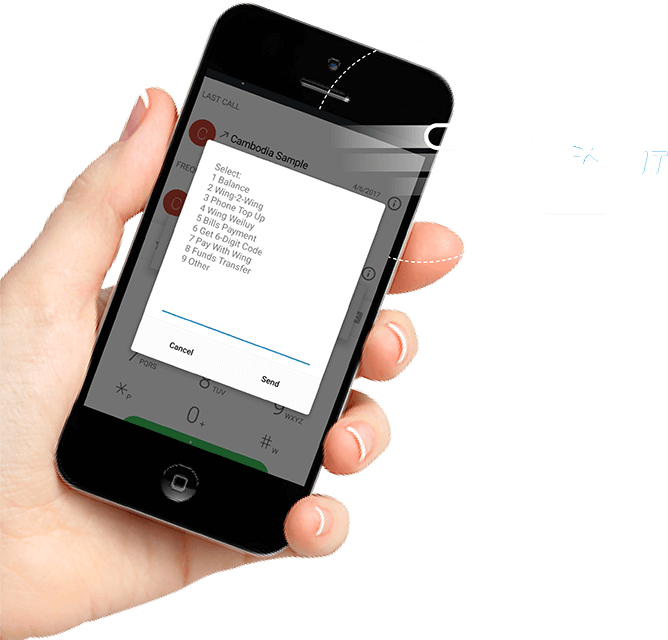
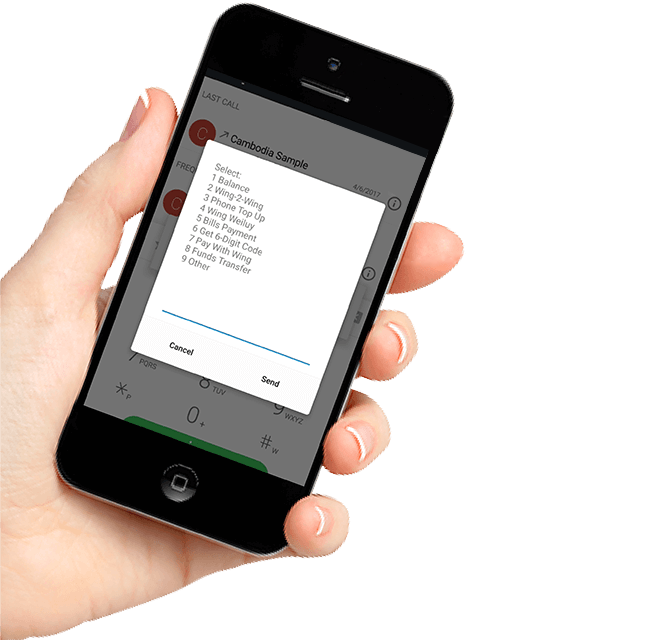
Removed Wing IT texts

Changed region(s): [[0.509, 0.1875, 0.6886, 0.3125], [0.988, 0.2188, 1.0, 0.25]]

diff --git a/web/khmer-home.php b/web/khmer-home.php
@@ -125,9 +125,12 @@ height="0" width="0" style="display:none;visibility:hidden"></iframe></noscript>
 						<div class="table-cell">
 							<div class="banner-text text-center">
 								<!-- <h3 class="animated hiding" data-animation="fadeInUp" data-delay="200">Do you need to...</h3> -->
-								<h1 class="animated hiding" data-animation="fadeInUp" data-delay="200">ប្រើប្រាស់វីង<br style="display: block;" />ដើម្បីទទួលបានអត្ថប្រយោជន៏<br style="display: block;" />កាន់តែច្រើន!</h1>
+								<!-- <h1 class="animated hiding" data-animation="fadeInUp" data-delay="200">ប្រើប្រាស់វីង<br style="display: block;" />ដើម្បីទទួលបានអត្ថប្រយោជន៏<br style="display: block;" />កាន់តែច្រើន!</h1> -->
+								<h1 class="animated hiding" data-animation="fadeInUp" data-delay="200">បើកគណនីវីងបានភ្លាមៗ!</h1>
 								<p class="animated hiding" data-animation="fadeInUp" data-delay="300">បើកគណនីវីងថ្ងៃនេះដើម្បីទទួលបានភាព<br />ងាយស្រួលមួយកំរិតទៀតក្នុងការគ្រប់គ្រងសាច់ប្រាក់</p>
-								<div class="logo animated hiding" data-animation="fadeInUp" data-delay="400"><a href="" alt=""><img src="images/page_template/wingit.png" alt=""></a></div>
+								<!-- <div class="logo animated hiding" data-animation="fadeInUp" data-delay="400"><a href="" alt=""><img src="images/page_template/wingit.png" alt=""></a></div> -->
+								<br>
+								<br>
 
 								<div class="text-center animated hiding" data-animation="fadeInUp" data-delay="500">
 									<a href="khmer-form.php" class="btn click-apply apply-now-button">បើកគណនីវីងដោយឥតគិតថ្លៃ</a><br>
@@ -170,7 +173,8 @@ height="0" width="0" style="display:none;visibility:hidden"></iframe></noscript>
 					<div class="text-content animated hiding" data-animation="fadeInUp">
 						<!-- <span class="arrow-icon block"><i class="fa fa-angle-down" aria-hidden="true"></i></span> -->
 						<!-- <h3>ប្រើប្រាស់វីងដើម្បីទទួលបានអត្ថប្រយោជន៍ជាច្រើន!</h3> -->
-						<h3><strong>ប្រើប្រាស់វីងដើម្បីទទួលបាន<br />អត្ថប្រយោជន៍កាន់តែច្រើន!</strong></h3>
+						<!-- <h3><strong>ប្រើប្រាស់វីងដើម្បីទទួលបាន<br />អត្ថប្រយោជន៍កាន់តែច្រើន!</strong></h3> -->
+						<h3>ប្រើគណនីវីងដើម្បីផ្ញើប្រាក់ បង់វិក្កយបត្រ ទិញទំនិញអ៊នឡាញ ។ល។</h3>
 						<!-- <div class="logo-inverted">
 							<img src="images/page_template/logo-inverted.png" alt="">
 						</div> -->
@@ -187,7 +191,7 @@ height="0" width="0" style="display:none;visibility:hidden"></iframe></noscript>
 										<h2>វេរលុយ</h2>
 										<p>&nbsp;</p>
 										<p><strong>វេរលុយឲ្យមិត្តភក្តិ និងក្រុមគ្រួសារ<br />គ្រប់ទីកន្លែងទូទាំងប្រទេស!</strong>
-										<p>មិនថាអ្នកនៅកន្លែងណា អ្នកអាចវេរលុយបានយ៉ាង<br />រហ័សនិងមានសុវត្ថិភាព</p>
+										<p>មិនថាអ្នកនៅកន្លែងណា អ្នកអាចផ្ញើប្រាក់បានលឿននិងដោយសុវត្ថិភាពពេលអ្នកប្រើគណនីវីង!</p>
 									</div>
 								</li>
 
@@ -480,7 +484,7 @@ height="0" width="0" style="display:none;visibility:hidden"></iframe></noscript>
 					<div class="text-content animated hiding" data-animation="fadeInUp">
 						<h5>ចាំអីទៀត?</h5>
 						<h3>បើកគណនីវីងរបស់អ្នកឥឡូវនេះ</h3>
-						<h3><strong>ដើម្បីទទួលបានអត្ថប្រយោជន៏<br />កាន់តែច្រើន!</strong></h3>
+						<!-- <h3><strong>ដើម្បីទទួលបានអត្ថប្រយោជន៏<br />កាន់តែច្រើន!</strong></h3> -->
 
 						<a href="khmer-form.php" class="btn click-apply btn-desktop">ស្នើបើកគណនីវីងដោយឥតគិតថ្លៃ</a>
 					</div>

diff --git a/web/index.php b/web/index.php
@@ -115,10 +115,13 @@ height="0" width="0" style="display:none;visibility:hidden"></iframe></noscript>
 						<div class="table-cell">
 							<div class="banner-text text-center">
 								<!-- <h3 class="animated hiding" data-animation="fadeInUp" data-delay="200">Do you need to...</h3> -->
-								<h1 class="animated hiding" data-animation="fadeInUp" data-delay="200">#WingIT <i>to</i> get MORE!</h1>
+								<!-- <h1 class="animated hiding" data-animation="fadeInUp" data-delay="200">#WingIT <i>to</i> get MORE!</h1> -->
+								<h1 class="animated hiding" data-animation="fadeInUp" data-delay="200">Get your Wing Account in a Snap!</h1>
 								<!-- <p class="animated hiding" data-animation="fadeInUp" data-delay="300">Register a Wing Account and <br> get 15% discount in any of our partner merchants.</p> -->
 								<p class="animated hiding" data-animation="fadeInUp" data-delay="300">Register for a WING Account today to <br>start enjoying a new level of convenience!</p>
-								<div class="logo animated hiding" data-animation="fadeInUp" data-delay="400"><a href="" alt=""><img src="images/page_template/wingit.png" alt=""></a></div>
+								<!-- <div class="logo animated hiding" data-animation="fadeInUp" data-delay="400"><a href="" alt=""><img src="images/page_template/wingit.png" alt=""></a></div> -->
+								<br>
+								<br>
 
 								<div class="text-center animated hiding" data-animation="fadeInUp" data-delay="500">
 									<a href="form.php" class="btn click-apply apply-now-button">Apply now</a><br>
@@ -160,8 +163,8 @@ height="0" width="0" style="display:none;visibility:hidden"></iframe></noscript>
 				<div class="container">
 					<div class="text-content animated hiding" data-animation="fadeInUp">
 						<!-- <span class="arrow-icon block"><i class="fa fa-angle-down" aria-hidden="true"></i></span> -->
-						<h3>THERE ARE SO MANY <br>WAYS TO WING IT!</h3>
-						<h3><strong>#WingIT <i style="font-weight:400;">to</i> get MORE!</strong></h3>
+						<h3 style="text-transform: uppercase;">Use your Wing Account to send money, pay bills, shop online, and many more!</h3>
+						<!-- <h3><strong>#WingIT <i style="font-weight:400;">to</i> get MORE!</strong></h3> -->
 						<!-- <div class="logo-inverted">
 							<img src="images/page_template/logo-inverted.png" alt="">
 						</div> -->
@@ -176,7 +179,7 @@ height="0" width="0" style="display:none;visibility:hidden"></iframe></noscript>
 									<div class="flex-item">
 										<h2>Send Money </h2>
 										<p><strong>Send Money to friends and family around Cambodia!</strong></p>
-										<p>No matter where you are, you'll be able to send money quickly and safely when you WING IT!</p>
+										<p>No matter where you are, you'll be able to send money quickly and safely using your Wing Account</p>
 									</div>
 								</li>
 								<li>
@@ -461,7 +464,7 @@ height="0" width="0" style="display:none;visibility:hidden"></iframe></noscript>
 					<div class="text-content animated hiding" data-animation="fadeInUp">
 						<h5>Why wait?</h5>
 						<h3>Get your own Wing Account NOW!</h3>
-						<h3><strong>#WingIT <i style="font-weight:400;">to</i> get MORE!</strong></h3>
+						<!-- <h3><strong>#WingIT <i style="font-weight:400;">to</i> get MORE!</strong></h3> -->
 						<a href="form.php" class="btn click-apply btn-desktop">APPLY FOR FREE!</a>
 					</div>
 					<div class="graphic-wrap animated hiding" data-animation="fadeInUp">
